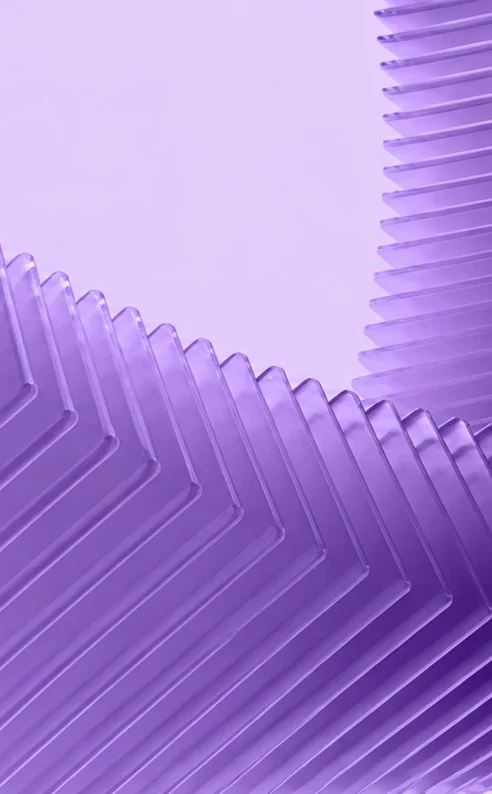
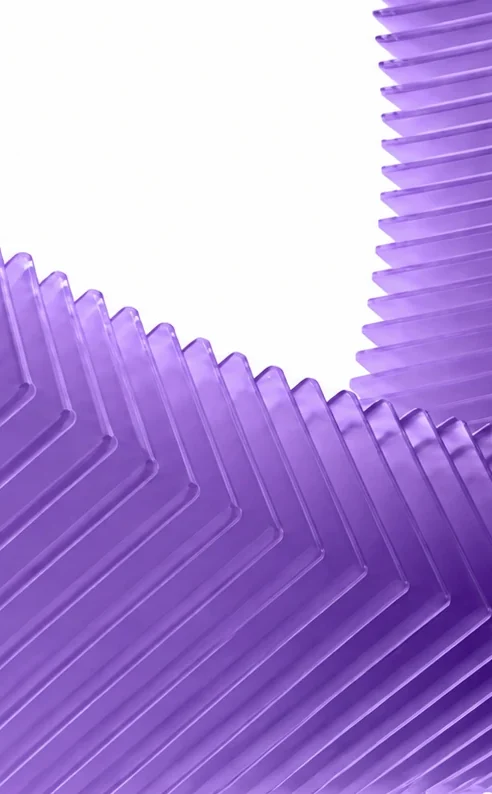
Abertura: nova foto de lâminas sobre branco, opacidade normal e menu preto
Claude-Session: https://claude.ai/code/session_01RowSqNRkerTgDrzqNvXTa8

diff --git a/index-v2.html b/index-v2.html
@@ -117,8 +117,9 @@
     .nav-brand img { height: 30px; width: auto; }
 
     .nav-links { display: flex; align-items: center; gap: 40px; list-style: none; }
-    .nav-links a { font-size: 17px; color: #fff; text-decoration: none; text-shadow: 0 1px 10px rgba(36,14,80,.35); transition: opacity .2s ease; }
-    .nav-links a:hover { color: #fff; opacity: .75; }
+    /* o topo da foto nova e branco: menu preto pra aparecer */
+    .nav-links a { font-size: 17px; color: #000; text-decoration: none; transition: opacity .2s ease; }
+    .nav-links a:hover { opacity: .65; }
 
     .nav-actions { position: absolute; right: 0; top: 50%; transform: translateY(-50%); display: flex; align-items: center; gap: 10px; }
     .nav-actions .btn-primary { background: #1b1528; border-color: #1b1528; box-shadow: none; border-radius: 6px; padding: 11px 18px; }
@@ -171,9 +172,7 @@
       display: grid; place-items: center; text-align: center;
     }
     /* foto de laminas roxas; um veu branco no centro garante a leitura do titulo */
-    .abertura-fundo { position: absolute; inset: 0; z-index: -1; overflow: hidden; background: #d9cbf7 url('assets/hero-ondas.webp') center / cover no-repeat; }
-    /* veu branco: deixa a foto ~35% mais clara */
-    .abertura-fundo::before { content: ''; position: absolute; inset: 0; background: rgba(255,255,255,.35); }
+    .abertura-fundo { position: absolute; inset: 0; z-index: -1; overflow: hidden; background: #fff url('assets/hero-ondas.webp') center / cover no-repeat; }
     .abertura-fundo::after {
       content: ''; position: absolute; inset: 0;
       background: radial-gradient(ellipse 52% 34% at 50% 50%, rgba(46,20,96,.42) 0%, rgba(46,20,96,.18) 55%, rgba(46,20,96,0) 100%);
